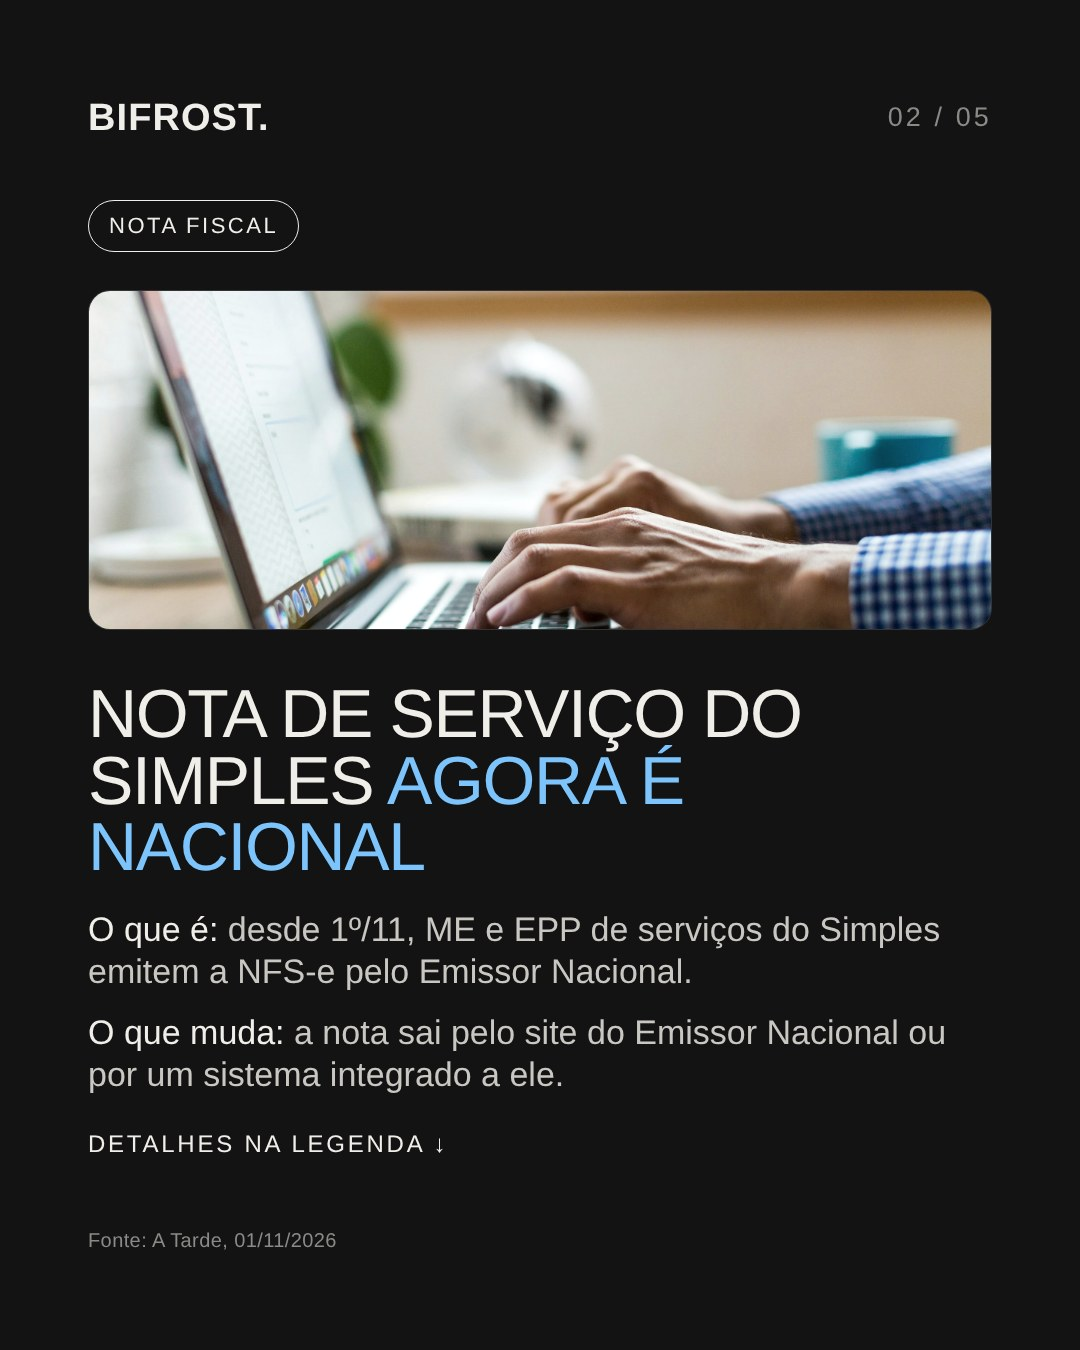
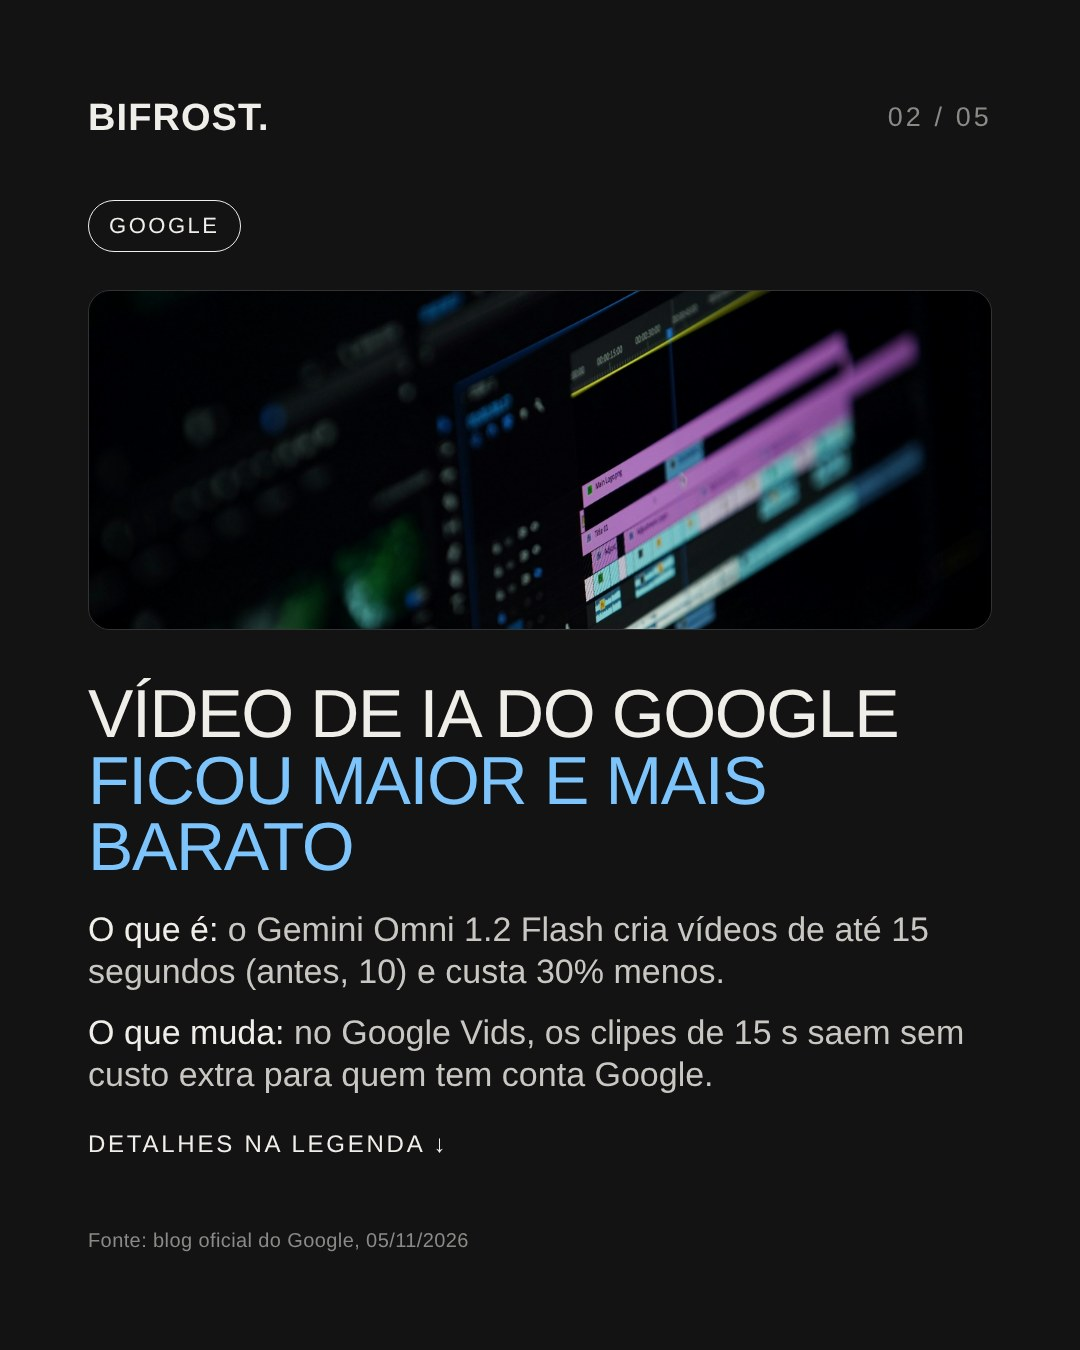
Prévia 06/11: Tech da semana refeito com novidades de Google, OpenAI e WhatsApp (aguardando aprovação)
Claude-Session: https://claude.ai/code/session_012gfGN8RhDZBiv1RjadMrkZ

diff --git a/posts/2026-11-06-carrossel-tech-da-semana/arte.html b/posts/2026-11-06-carrossel-tech-da-semana/arte.html
@@ -1,6 +1,5 @@
-<!doctype html><html><head><meta charset='utf-8'><link rel="stylesheet" href="../../ferramentas/marca.css">
-<style>.item{display:flex;gap:28px;align-items:baseline}.item .num{flex:none;width:52px}.item p{margin:0;font-size:40px;line-height:1.22;color:var(--ink-soft)}.item b{font-weight:400;color:var(--ink)}</style></head><body>
-<!-- Carrossel 06/11/2026 10:00 · Tech da semana · família editorial · 2 notícias + como se preparar -->
+<!doctype html><html><head><meta charset='utf-8'><link rel="stylesheet" href="../../ferramentas/marca.css"></head><body>
+<!-- Carrossel 06/11/2026 · Tech da semana · família editorial · 3 notícias de big techs (Google, OpenAI, WhatsApp) -->
 
 <!-- 1 · CAPA -->
 <section class="slide">
@@ -8,53 +7,53 @@
   <div class="orb" style="width:420px;height:420px;left:820px;top:-210px"></div>
   <div class="head"><span class="mark">BIFROST.</span></div>
   <div style="position:absolute;left:var(--mx);top:250px"><span class="tag">Tech da semana · 31/10 a 06/11</span></div>
-  <div class="recorte" style="left:var(--mx);right:var(--mx);top:350px;height:480px"><img src="foto-1.jpg" style="object-position:50% 45%"></div>
+  <div class="recorte" style="left:var(--mx);right:var(--mx);top:350px;height:480px"><img src="foto-2.jpg" style="object-position:50% 55%"></div>
   <div class="bottom">
-    <h1 class="hero" style="font-size:100px">Nota fiscal nova e golpe <em>na Black Friday</em></h1>
+    <h1 class="hero" style="font-size:100px">Google, OpenAI e WhatsApp <em>lançaram isto</em></h1>
     <div class="eb" style="margin-top:44px">Arraste para o lado →</div>
   </div>
 </section>
 
-<!-- 2 · NFS-E NACIONAL -->
+<!-- 2 · GOOGLE GEMINI OMNI -->
 <section class="slide">
   <div class="head"><span class="mark">BIFROST.</span><span class="eb muted">02 / 05</span></div>
-  <div style="position:absolute;left:var(--mx);top:200px"><span class="tag">Nota fiscal</span></div>
-  <div class="recorte" style="left:var(--mx);right:var(--mx);top:290px;height:340px"><img src="foto-2.jpg" style="object-position:50% 60%"></div>
+  <div style="position:absolute;left:var(--mx);top:200px"><span class="tag">Google</span></div>
+  <div class="recorte" style="left:var(--mx);right:var(--mx);top:290px;height:340px"><img src="foto-4.jpg" style="object-position:50% 50%"></div>
   <div style="position:absolute;left:var(--mx);right:var(--mx);top:680px">
-    <h1 class="manchete">Nota de serviço do Simples <em>agora é nacional</em></h1>
-    <p class="body" style="margin-top:28px;font-size:34px"><span style="color:var(--ink)">O que é:</span> desde 1º/11, ME e EPP de serviços do Simples emitem a NFS-e pelo Emissor Nacional.</p>
-    <p class="body" style="margin-top:18px;font-size:34px"><span style="color:var(--ink)">O que muda:</span> a nota sai pelo site do Emissor Nacional ou por um sistema integrado a ele.</p>
+    <h1 class="manchete">Vídeo de IA do Google <em>ficou maior e mais barato</em></h1>
+    <p class="body" style="margin-top:28px;font-size:34px"><span style="color:var(--ink)">O que é:</span> o Gemini Omni 1.2 Flash cria vídeos de até 15 segundos (antes, 10) e custa 30% menos.</p>
+    <p class="body" style="margin-top:18px;font-size:34px"><span style="color:var(--ink)">O que muda:</span> no Google Vids, os clipes de 15 s saem sem custo extra para quem tem conta Google.</p>
     <div class="eb" style="margin-top:34px;font-size:24px">Detalhes na legenda ↓</div>
   </div>
-  <div style="position:absolute;left:var(--mx);right:var(--mx);bottom:var(--my)"><p class="credito">Fonte: A Tarde, 01/11/2026</p></div>
+  <div style="position:absolute;left:var(--mx);right:var(--mx);bottom:var(--my)"><p class="credito">Fonte: blog oficial do Google, 05/11/2026</p></div>
 </section>
 
-<!-- 3 · BLACK FRIDAY -->
+<!-- 3 · OPENAI IMAGES 2.6 -->
 <section class="slide">
   <div class="head"><span class="mark">BIFROST.</span><span class="eb muted">03 / 05</span></div>
-  <div style="position:absolute;left:var(--mx);top:200px"><span class="tag">Alerta de golpe</span></div>
-  <div class="recorte" style="left:var(--mx);right:var(--mx);top:290px;height:340px"><img src="foto-3.jpg" style="object-position:50% 70%"></div>
+  <div style="position:absolute;left:var(--mx);top:200px"><span class="tag">OpenAI</span></div>
+  <div class="recorte" style="left:var(--mx);right:var(--mx);top:290px;height:340px"><img src="foto-5.jpg" style="object-position:50% 50%"></div>
   <div style="position:absolute;left:var(--mx);right:var(--mx);top:680px">
-    <h1 class="manchete">Site falso é o golpe <em>mais citado da Black Friday</em></h1>
-    <p class="body" style="margin-top:28px;font-size:34px"><span style="color:var(--ink)">O que é:</span> em pesquisa da Serasa Experian, 53% citaram sites falsos. A Black Friday é em 27/11.</p>
-    <p class="body" style="margin-top:18px;font-size:34px"><span style="color:var(--ink)">O que muda:</span> o cliente fica desconfiado e compra de quem parece oficial e fácil de checar.</p>
+    <h1 class="manchete">ChatGPT agora cria <em>GIFs a partir de texto</em></h1>
+    <p class="body" style="margin-top:28px;font-size:34px"><span style="color:var(--ink)">O que é:</span> o novo modelo de imagens da OpenAI, o Images 2.6, gera imagens até 50% mais rápido.</p>
+    <p class="body" style="margin-top:18px;font-size:34px"><span style="color:var(--ink)">O que muda:</span> ele mantém melhor o mesmo produto e a mesma identidade visual entre uma imagem e outra.</p>
     <div class="eb" style="margin-top:34px;font-size:24px">Detalhes na legenda ↓</div>
   </div>
-  <div style="position:absolute;left:var(--mx);right:var(--mx);bottom:var(--my)"><p class="credito">Fonte: Olhar Digital, 05/11/2026 (pesquisa Serasa Experian)</p></div>
+  <div style="position:absolute;left:var(--mx);right:var(--mx);bottom:var(--my)"><p class="credito">Fonte: MacMagazine, 05/11/2026</p></div>
 </section>
 
-<!-- 4 · COMO SE PREPARAR -->
+<!-- 4 · WHATSAPP EVENTOS -->
 <section class="slide">
   <div class="head"><span class="mark">BIFROST.</span><span class="eb muted">04 / 05</span></div>
-  <div style="position:absolute;left:var(--mx);right:var(--mx);top:250px">
-    <div class="eb muted">Como se preparar</div>
-    <h1 class="tmd" style="margin-top:34px;font-size:84px">3 cuidados <em>para esta semana</em></h1>
-    <div style="margin-top:70px;display:flex;flex-direction:column;gap:46px">
-      <div class="item"><span class="num">01</span><p><b>Emita uma nota de teste no Emissor Nacional.</b> Melhor descobrir o problema agora do que no dia do cliente.</p></div>
-      <div class="item"><span class="num">02</span><p><b>Divulgue um só endereço oficial.</b> Site e WhatsApp da empresa sempre iguais em todo lugar.</p></div>
-      <div class="item"><span class="num">03</span><p><b>Deixe o site fácil de conferir.</b> CNPJ, contato e cadeado do https à vista.</p></div>
-    </div>
+  <div style="position:absolute;left:var(--mx);top:200px"><span class="tag">WhatsApp</span></div>
+  <div class="recorte" style="left:var(--mx);right:var(--mx);top:290px;height:340px"><img src="foto-3.jpg" style="object-position:50% 70%"></div>
+  <div style="position:absolute;left:var(--mx);right:var(--mx);top:680px">
+    <h1 class="manchete">Convite de evento do WhatsApp <em>agora sai do app</em></h1>
+    <p class="body" style="margin-top:28px;font-size:34px"><span style="color:var(--ink)">O que é:</span> o link de um evento criado no WhatsApp pode ser aberto por quem não usa o app.</p>
+    <p class="body" style="margin-top:18px;font-size:34px"><span style="color:var(--ink)">O que muda:</span> dá para convidar clientes para um lançamento ou aula e ver quem confirmou.</p>
+    <div class="eb" style="margin-top:34px;font-size:24px">Detalhes na legenda ↓</div>
   </div>
+  <div style="position:absolute;left:var(--mx);right:var(--mx);bottom:var(--my)"><p class="credito">Fonte: MacMagazine, 05/11/2026 (blog oficial do WhatsApp)</p></div>
 </section>
 
 <!-- 5 · FECHAMENTO -->
@@ -64,8 +63,8 @@
   <div class="head"><span class="mark">BIFROST.</span><span class="eb muted">05 / 05</span></div>
   <div style="position:absolute;left:var(--mx);right:var(--mx);top:280px">
     <div class="eb muted" style="margin-bottom:40px">Automação de processos</div>
-    <h1 class="hero" style="font-size:96px">Venda, nota e planilha <em>conversando sozinhas</em></h1>
-    <p class="body" style="margin-top:36px;font-size:36px">A gente integra seus sistemas para ninguém digitar o mesmo dado duas vezes.</p>
+    <h1 class="hero" style="font-size:96px">IA boa é a que <em>trabalha por você</em></h1>
+    <p class="body" style="margin-top:36px;font-size:36px">A gente coloca a IA dentro dos processos da sua empresa, do atendimento ao relatório.</p>
     <div style="display:flex;align-items:center;gap:40px;margin-top:56px"><span class="cta solid">Seguir @bifrosttech →</span></div>
   </div>
 </section>
